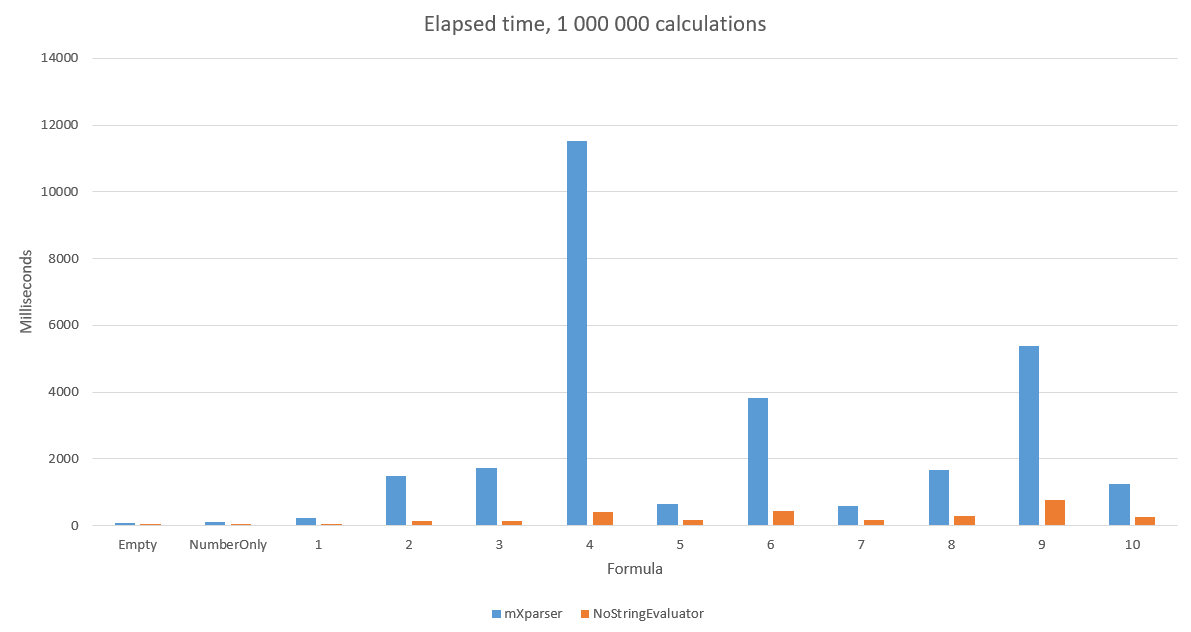
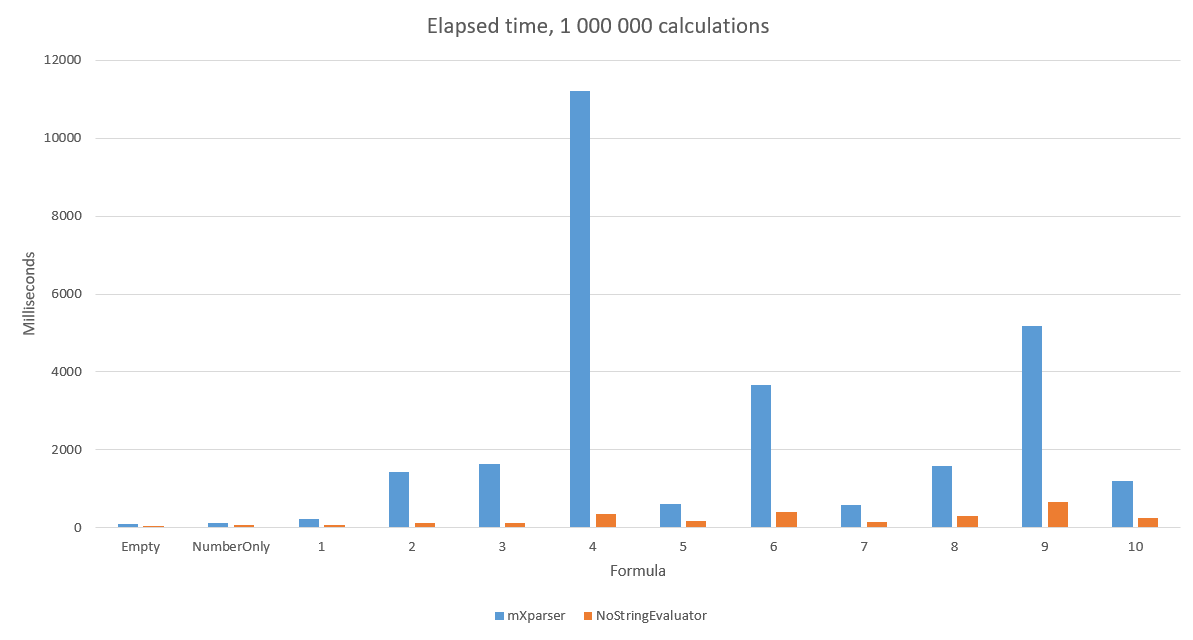
Readme update

diff --git a/BenchResults/both.html b/BenchResults/both.html
@@ -2,7 +2,7 @@
 <html lang='en'>
 <head>
 <meta charset='utf-8' />
-<title>ConsoleApp.Benchmark.BenchmarkNumberService-20220812-211904</title>
+<title>ConsoleApp.Benchmark.BenchNumbers-20221007-151232</title>
 
 <style type="text/css">
 	table { border-collapse: collapse; display: block; width: 100%; overflow: auto; }
@@ -13,11 +13,11 @@
 </head>
 <body>
 <pre><code>
-BenchmarkDotNet=v0.13.1, OS=Windows 10.0.19044.1766 (21H2)
+BenchmarkDotNet=v0.13.1, OS=Windows 10.0.19044.2006 (21H2)
 11th Gen Intel Core i7-1185G7 3.00GHz, 1 CPU, 8 logical and 4 physical cores
-.NET SDK=6.0.302
-  [Host]     : .NET 6.0.7 (6.0.722.32202), X64 RyuJIT
-  Job-RVWEQO : .NET 6.0.7 (6.0.722.32202), X64 RyuJIT
+.NET SDK=6.0.401
+  [Host]     : .NET 6.0.9 (6.0.922.41905), X64 RyuJIT
+  Job-UVASNZ : .NET 6.0.9 (6.0.922.41905), X64 RyuJIT
 </code></pre>
 <pre><code>InvocationCount=3  IterationCount=10  RunStrategy=Monitoring  
 UnrollFactor=1  WarmupCount=2  
@@ -26,30 +26,30 @@ UnrollFactor=1  WarmupCount=2
 <table>
 <thead><tr><th>       Method</th><th>  Mean</th><th>Error</th><th>StdDev</th><th> Gen 0</th><th>Gen 1</th><th>Allocated</th>
 </tr>
-</thead><tbody><tr><td>Empty_NoString</td><td>43.00 ms</td><td>3.034 ms</td><td>2.006 ms</td><td>-</td><td>-</td><td>4 KB</td>
-</tr><tr><td>NumberOnly_NoString</td><td>53.07 ms</td><td>2.050 ms</td><td>1.356 ms</td><td>-</td><td>-</td><td>4 KB</td>
-</tr><tr><td>Formula1_NoString</td><td>62.03 ms</td><td>2.075 ms</td><td>1.373 ms</td><td>-</td><td>-</td><td>5 KB</td>
-</tr><tr><td>Formula2_NoString</td><td>126.37 ms</td><td>6.740 ms</td><td>4.458 ms</td><td>-</td><td>-</td><td>5 KB</td>
-</tr><tr><td>Formula3_NoString</td><td>129.19 ms</td><td>1.361 ms</td><td>0.900 ms</td><td>-</td><td>-</td><td>6 KB</td>
-</tr><tr><td>Formula4_NoString</td><td>411.19 ms</td><td>10.455 ms</td><td>6.915 ms</td><td>-</td><td>-</td><td>11 KB</td>
-</tr><tr><td>Formula5_NoString</td><td>183.46 ms</td><td>10.247 ms</td><td>6.777 ms</td><td>-</td><td>-</td><td>6 KB</td>
-</tr><tr><td>Formula6_NoString</td><td>451.81 ms</td><td>6.770 ms</td><td>4.478 ms</td><td>-</td><td>-</td><td>9 KB</td>
-</tr><tr><td>Formula7_NoString</td><td>155.56 ms</td><td>5.124 ms</td><td>3.389 ms</td><td>-</td><td>-</td><td>6 KB</td>
-</tr><tr><td>Formula8_NoString</td><td>303.41 ms</td><td>12.968 ms</td><td>8.578 ms</td><td>-</td><td>-</td><td>7 KB</td>
-</tr><tr><td>Formula9_NoString</td><td>780.83 ms</td><td>21.834 ms</td><td>14.442 ms</td><td>-</td><td>-</td><td>11 KB</td>
-</tr><tr><td>Formula10_NoString</td><td>262.49 ms</td><td>4.031 ms</td><td>2.666 ms</td><td>-</td><td>-</td><td>6 KB</td>
-</tr><tr><td>Empty_MxParser</td><td>81.11 ms</td><td>6.893 ms</td><td>4.559 ms</td><td>59666.6667</td><td>-</td><td>367,188 KB</td>
-</tr><tr><td>NumberOnly_MxParser</td><td>115.52 ms</td><td>7.319 ms</td><td>4.841 ms</td><td>24000.0000</td><td>-</td><td>148,553 KB</td>
-</tr><tr><td>Formula1_MxParser</td><td>226.23 ms</td><td>4.053 ms</td><td>2.681 ms</td><td>44333.3333</td><td>-</td><td>273,561 KB</td>
-</tr><tr><td>Formula2_MxParser</td><td>1,488.91 ms</td><td>22.070 ms</td><td>14.598 ms</td><td>184666.6667</td><td>666.6667</td><td>1,133,085 KB</td>
-</tr><tr><td>Formula3_MxParser</td><td>1,719.66 ms</td><td>17.814 ms</td><td>11.783 ms</td><td>270333.3333</td><td>1000.0000</td><td>1,656,573 KB</td>
-</tr><tr><td>Formula4_MxParser</td><td>11,540.20 ms</td><td>112.236 ms</td><td>74.237 ms</td><td>1135000.0000</td><td>17666.6667</td><td>6,954,262 KB</td>
-</tr><tr><td>Formula5_MxParser</td><td>641.17 ms</td><td>10.699 ms</td><td>7.076 ms</td><td>99333.3333</td><td>333.3333</td><td>609,626 KB</td>
-</tr><tr><td>Formula6_MxParser</td><td>3,814.36 ms</td><td>58.591 ms</td><td>38.754 ms</td><td>539333.3333</td><td>4333.3333</td><td>3,305,437 KB</td>
-</tr><tr><td>Formula7_MxParser</td><td>601.30 ms</td><td>13.820 ms</td><td>9.141 ms</td><td>142666.6667</td><td>333.3333</td><td>875,165 KB</td>
-</tr><tr><td>Formula8_MxParser</td><td>1,655.42 ms</td><td>34.548 ms</td><td>22.851 ms</td><td>364666.6667</td><td>1666.6667</td><td>2,234,671 KB</td>
-</tr><tr><td>Formula9_MxParser</td><td>5,386.85 ms</td><td>162.413 ms</td><td>107.426 ms</td><td>1506000.0000</td><td>18000.0000</td><td>9,227,212 KB</td>
-</tr><tr><td>Formula10_MxParser</td><td>1,246.40 ms</td><td>17.391 ms</td><td>11.503 ms</td><td>270333.3333</td><td>1000.0000</td><td>1,656,506 KB</td>
+</thead><tbody><tr><td>Empty_NoString</td><td>41.32 ms</td><td>1.315 ms</td><td>0.870 ms</td><td>-</td><td>-</td><td>3 KB</td>
+</tr><tr><td>NumberOnly_NoString</td><td>55.23 ms</td><td>1.043 ms</td><td>0.690 ms</td><td>-</td><td>-</td><td>4 KB</td>
+</tr><tr><td>Formula1_NoString</td><td>62.29 ms</td><td>1.456 ms</td><td>0.963 ms</td><td>-</td><td>-</td><td>4 KB</td>
+</tr><tr><td>Formula2_NoString</td><td>110.10 ms</td><td>1.917 ms</td><td>1.268 ms</td><td>-</td><td>-</td><td>5 KB</td>
+</tr><tr><td>Formula3_NoString</td><td>111.04 ms</td><td>1.994 ms</td><td>1.319 ms</td><td>-</td><td>-</td><td>5 KB</td>
+</tr><tr><td>Formula4_NoString</td><td>343.27 ms</td><td>13.962 ms</td><td>9.235 ms</td><td>-</td><td>-</td><td>10 KB</td>
+</tr><tr><td>Formula5_NoString</td><td>163.58 ms</td><td>4.221 ms</td><td>2.792 ms</td><td>-</td><td>-</td><td>5 KB</td>
+</tr><tr><td>Formula6_NoString</td><td>400.18 ms</td><td>6.320 ms</td><td>4.181 ms</td><td>-</td><td>-</td><td>8 KB</td>
+</tr><tr><td>Formula7_NoString</td><td>155.50 ms</td><td>2.455 ms</td><td>1.624 ms</td><td>-</td><td>-</td><td>5 KB</td>
+</tr><tr><td>Formula8_NoString</td><td>305.73 ms</td><td>6.025 ms</td><td>3.985 ms</td><td>-</td><td>-</td><td>7 KB</td>
+</tr><tr><td>Formula9_NoString</td><td>646.06 ms</td><td>18.072 ms</td><td>11.954 ms</td><td>-</td><td>-</td><td>11 KB</td>
+</tr><tr><td>Formula10_NoString</td><td>252.50 ms</td><td>6.380 ms</td><td>4.220 ms</td><td>-</td><td>-</td><td>6 KB</td>
+</tr><tr><td>Empty_MxParser</td><td>81.34 ms</td><td>3.891 ms</td><td>2.573 ms</td><td>59666.6667</td><td>-</td><td>367,188 KB</td>
+</tr><tr><td>NumberOnly_MxParser</td><td>108.79 ms</td><td>3.725 ms</td><td>2.464 ms</td><td>24000.0000</td><td>-</td><td>148,553 KB</td>
+</tr><tr><td>Formula1_MxParser</td><td>217.94 ms</td><td>4.486 ms</td><td>2.967 ms</td><td>44333.3333</td><td>-</td><td>273,561 KB</td>
+</tr><tr><td>Formula2_MxParser</td><td>1,434.13 ms</td><td>14.178 ms</td><td>9.378 ms</td><td>184666.6667</td><td>666.6667</td><td>1,133,085 KB</td>
+</tr><tr><td>Formula3_MxParser</td><td>1,630.28 ms</td><td>24.627 ms</td><td>16.289 ms</td><td>270333.3333</td><td>1000.0000</td><td>1,656,573 KB</td>
+</tr><tr><td>Formula4_MxParser</td><td>11,206.91 ms</td><td>53.136 ms</td><td>35.146 ms</td><td>1135000.0000</td><td>17666.6667</td><td>6,954,262 KB</td>
+</tr><tr><td>Formula5_MxParser</td><td>616.48 ms</td><td>7.682 ms</td><td>5.081 ms</td><td>99333.3333</td><td>333.3333</td><td>609,626 KB</td>
+</tr><tr><td>Formula6_MxParser</td><td>3,676.18 ms</td><td>40.058 ms</td><td>26.496 ms</td><td>539333.3333</td><td>4333.3333</td><td>3,305,437 KB</td>
+</tr><tr><td>Formula7_MxParser</td><td>579.87 ms</td><td>10.365 ms</td><td>6.856 ms</td><td>142666.6667</td><td>333.3333</td><td>875,165 KB</td>
+</tr><tr><td>Formula8_MxParser</td><td>1,580.51 ms</td><td>23.191 ms</td><td>15.339 ms</td><td>364666.6667</td><td>1666.6667</td><td>2,234,671 KB</td>
+</tr><tr><td>Formula9_MxParser</td><td>5,173.12 ms</td><td>48.245 ms</td><td>31.911 ms</td><td>1506000.0000</td><td>18000.0000</td><td>9,227,212 KB</td>
+</tr><tr><td>Formula10_MxParser</td><td>1,207.34 ms</td><td>19.757 ms</td><td>13.068 ms</td><td>270333.3333</td><td>1000.0000</td><td>1,656,506 KB</td>
 </tr></tbody></table>
 </body>
 </html>

diff --git a/README.md b/README.md
@@ -63,7 +63,7 @@ Microsoft.Extensions.DependencyInjection <br/>
 ## Performance
 Compared with a good solution [mXparser](https://github.com/mariuszgromada/MathParser.org-mXparser "mXparser")
 
-- In general, **x8** faster!
+- In general, **x9** faster!
 
 ### Testing formulas
 |  № | Formula |
